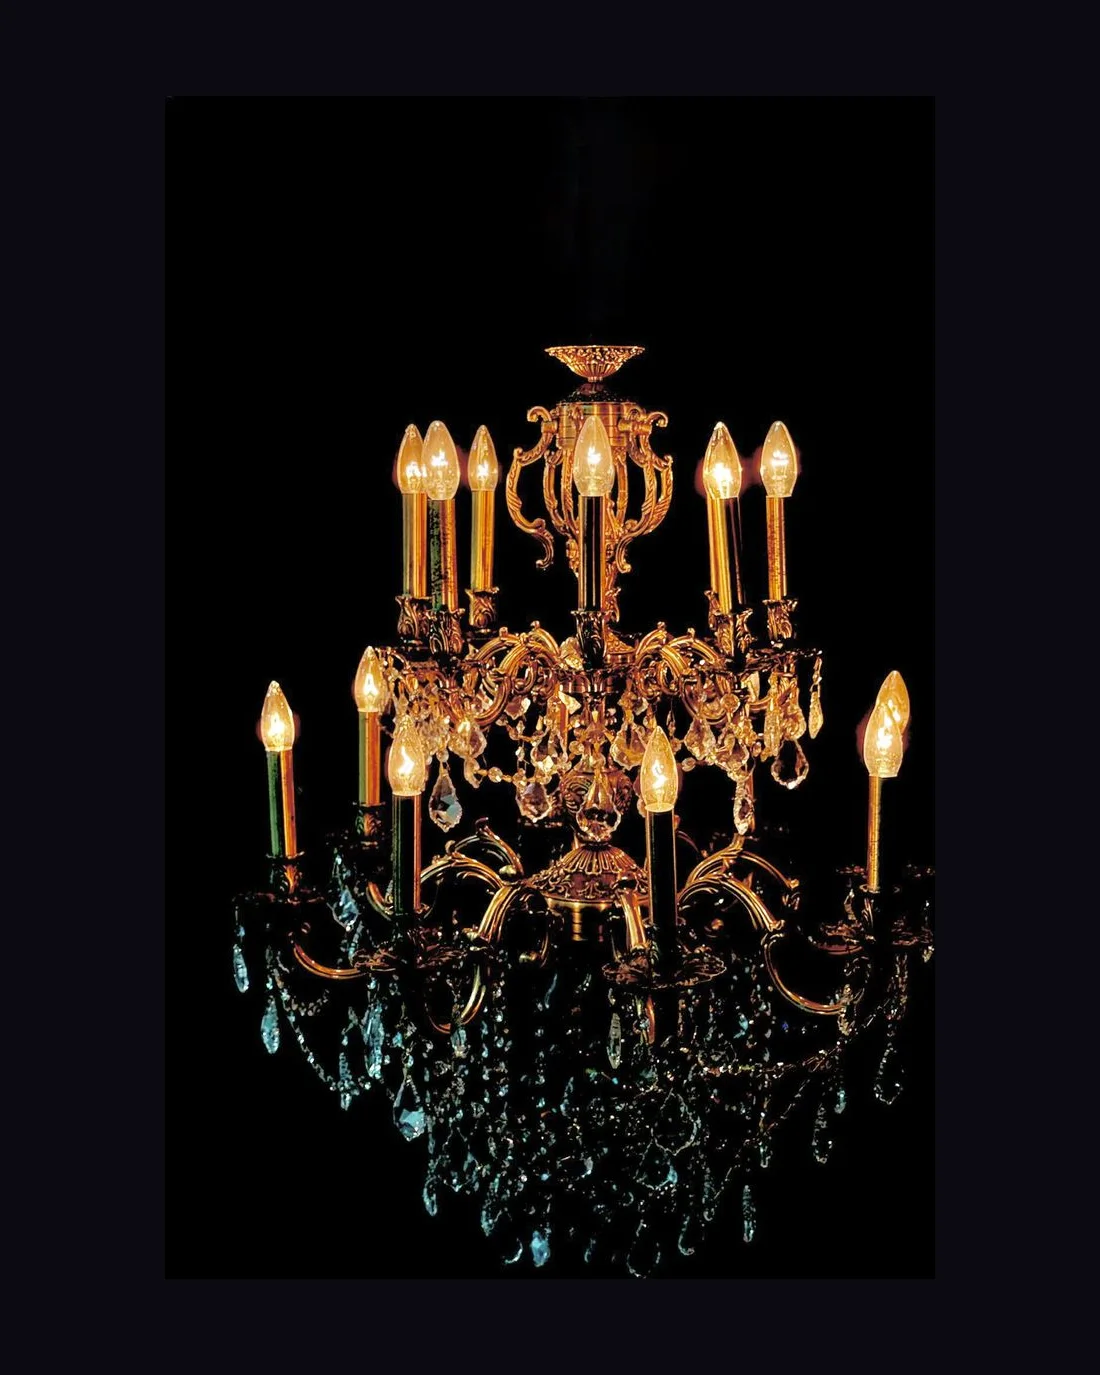
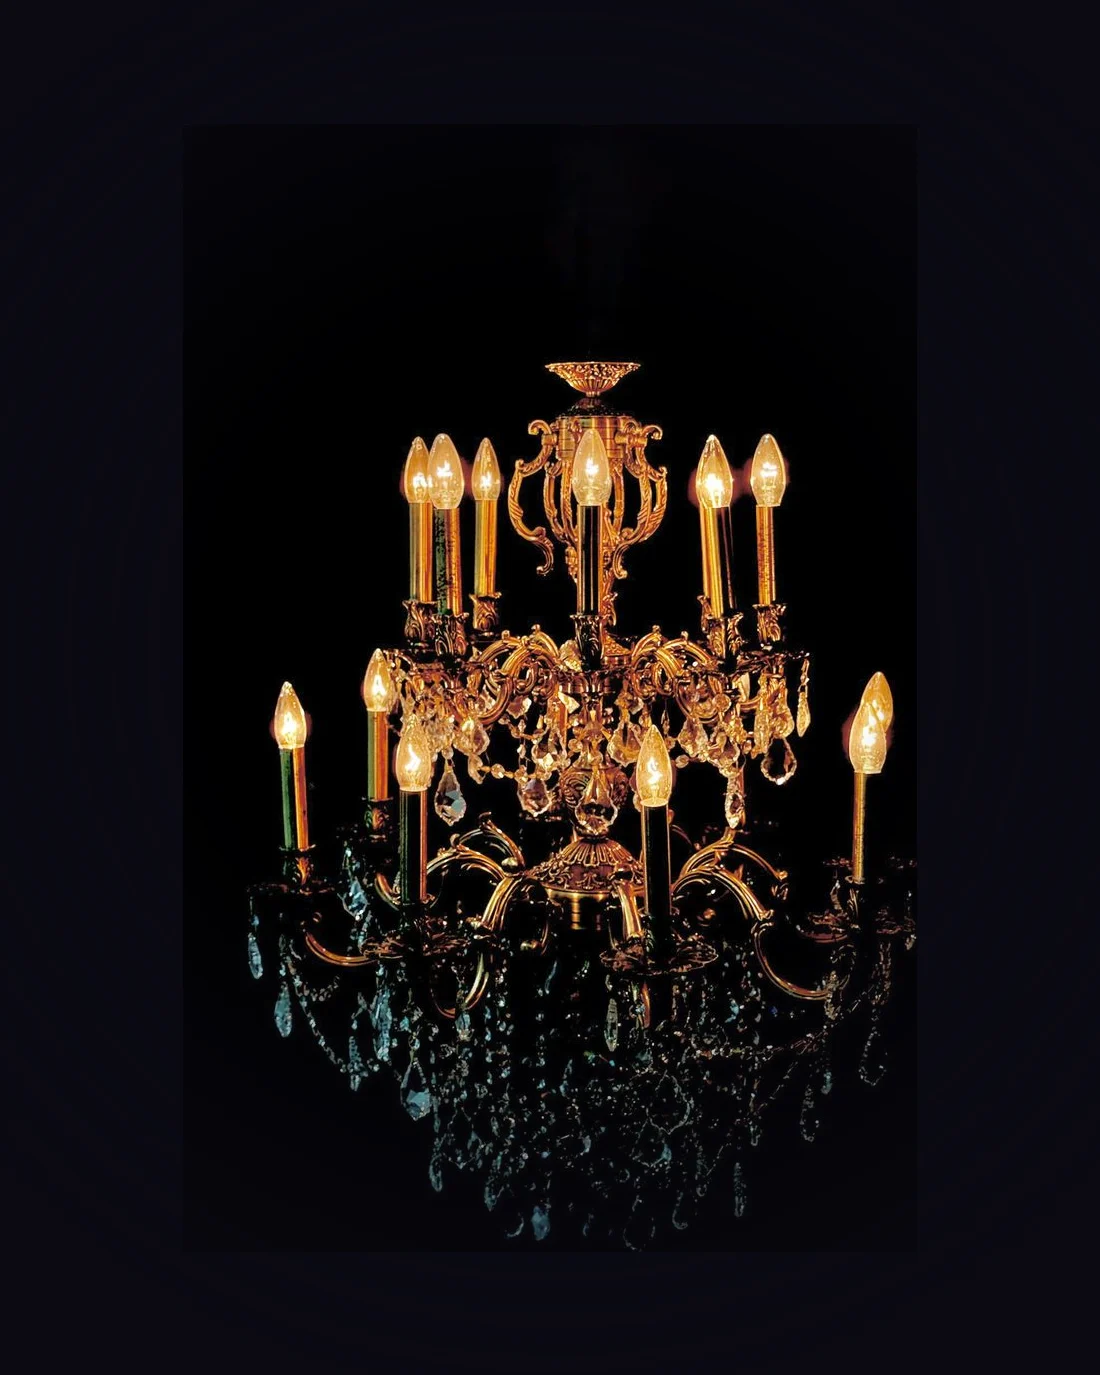
Hero araña de vuelta + fotos de catálogo centradas con fade
- Hero: vuelve el video de la araña
- Todas las fotos del catálogo regeneradas: producto centrado y con
  viñeteado que funde los bordes al fondo de la tarjeta (sin recuadro)

Changed region(s): [[0.2164, 0.2444, 0.8655, 0.9164]]

diff --git a/index.html b/index.html
@@ -93,9 +93,9 @@
       <div class="hero-art">
         <video class="hero-chandelier" autoplay loop muted playsinline preload="auto"
                disablepictureinpicture disableremoteplayback controlslist="nodownload noplaybackrate noremoteplayback"
-               poster="assets/video/hero-estufa-poster.webp" aria-hidden="true" tabindex="-1">
-          <source src="assets/video/hero-estufa.mp4" type="video/mp4" />
-          <source src="assets/video/hero-estufa.webm" type="video/webm" />
+               poster="assets/video/hero-arana-poster.webp" aria-hidden="true" tabindex="-1">
+          <source src="assets/video/hero-arana.mp4" type="video/mp4" />
+          <source src="assets/video/hero-arana.webm" type="video/webm" />
         </video>
       </div>
     </div>

diff --git a/css/styles.css b/css/styles.css
@@ -290,7 +290,7 @@ input, textarea, select { font-family: inherit; }
 .card-media.is-light { background: radial-gradient(circle at 50% 38%, #ffffff, #d7d3e4 82%); }
 .slides { position: absolute; inset: 0; }
 .slide {
-  position: absolute; inset: 0; width: 100%; height: 100%; object-fit: contain; padding: 10px;
+  position: absolute; inset: 0; width: 100%; height: 100%; object-fit: cover;
   opacity: 0; transition: opacity 0.5s var(--ease), transform 0.6s var(--ease);
 }
 .slide.active { opacity: 1; }
